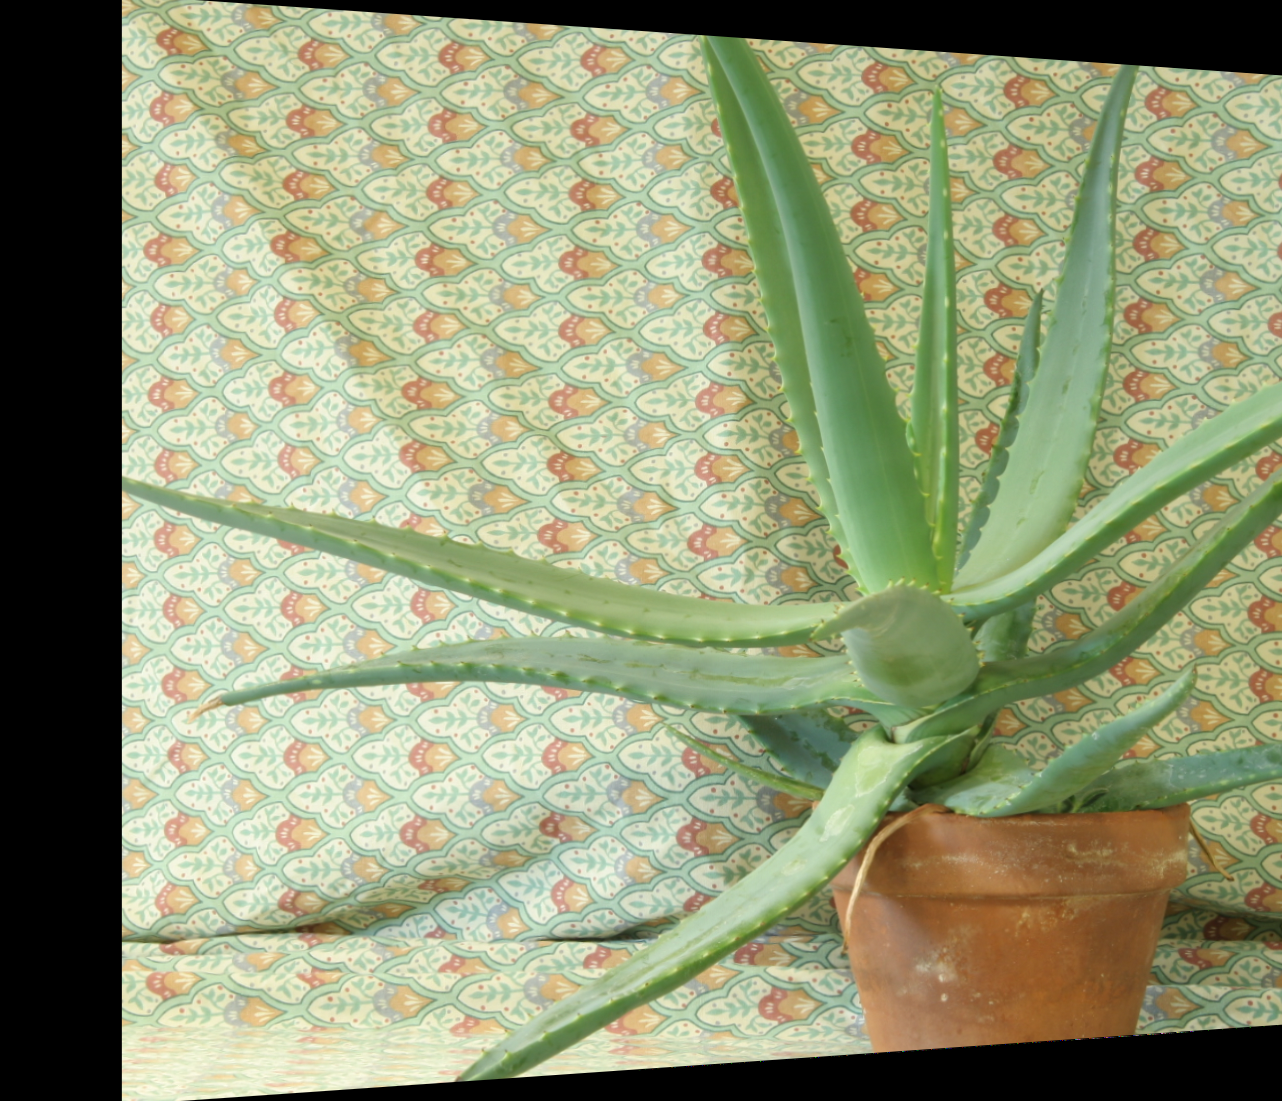
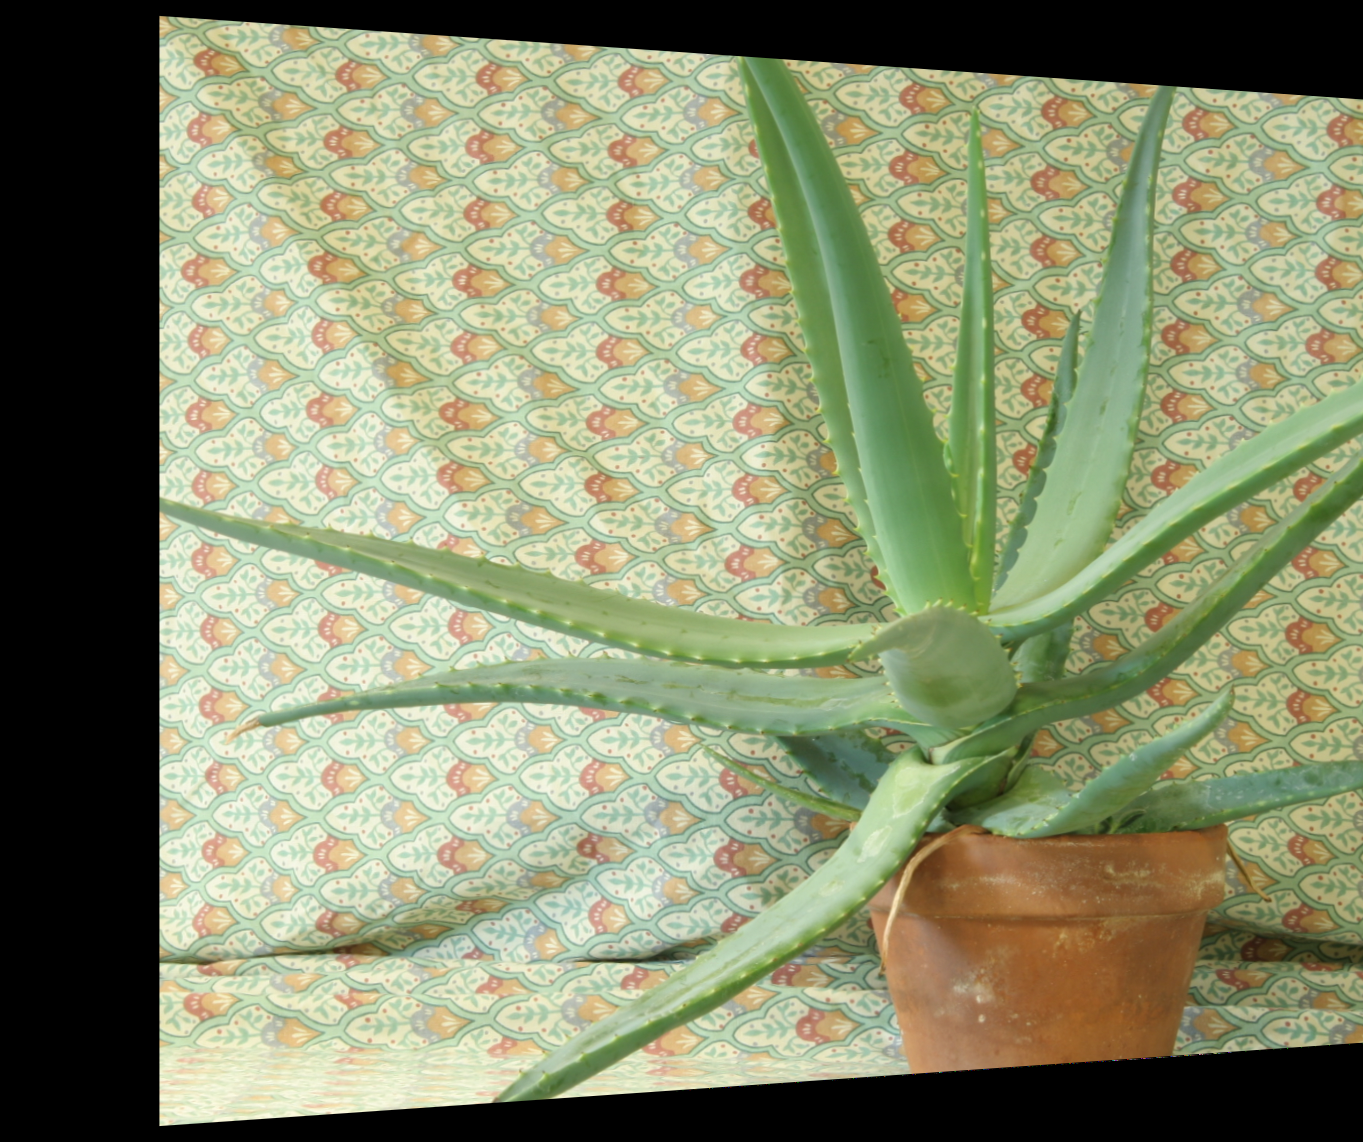
Tt est beau

diff --git a/Dev2/main.cpp b/Dev2/main.cpp
@@ -25,12 +25,12 @@ double zprime_cam_d = 1.0;
 
 cv::Mat findR()
 {
-    return R_cam_d * R_cam_g.t();
+    return R_cam_g.t() * R_cam_d;
 }
 
 cv::Mat findT(cv::Mat R)
 {
-    return T_cam_g - R.t() * T_cam_d;
+    return R_cam_d.t() * (T_cam_d - T_cam_g);
 }
 
 cv::Mat findRg(cv::Mat T)
@@ -51,7 +51,7 @@ cv::Mat findRg(cv::Mat T)
     double e31 = e12 * e23 - e22 * e13;
     double e32 = -(e11 * e23 - e21 * e13);
     double e33 = e11 * e22 - e21 * e12;
-    return (cv::Mat_<double>(3, 3) << e11, e21, e31, e12, e22, e32, e13, e23, e33);
+    return (cv::Mat_<double>(3, 3) << e11, e12, e13, e21, e22, e23, e31, e32, e33);
 }
 
 std::tuple<cv::Size, cv::Point2d> getDimensions(cv::Mat imageG, cv::Point2d Og, cv::Point2d Sg, cv::Mat Rg, double zprime, cv::Mat imageD, cv::Point2d Od, cv::Point2d Sd, cv::Mat Rd)
@@ -62,11 +62,11 @@ std::tuple<cv::Size, cv::Point2d> getDimensions(cv::Mat imageG, cv::Point2d Og, 
     {
         for (int x = 0; x < 2; x++)
         {
-            double trueX = x * (imageG.cols - 1);
-            double trueY = y * (imageG.rows - 1);
+            double m = x * (imageG.cols - 1);   //Coins de l'image originale gauche
+            double n = y * (imageG.rows - 1);
 
-            double px = (trueX - Og.x) * Sg.x;
-            double py = (trueY - Og.y) * Sg.y;
+            double px = (m - Og.x) * Sg.x;
+            double py = (n - Og.y) * Sg.y;
             double pz = zprime;
 
             cv::Mat p = (cv::Mat_<double>(3, 1) << px, py, pz); // point image
@@ -75,6 +75,8 @@ std::tuple<cv::Size, cv::Point2d> getDimensions(cv::Mat imageG, cv::Point2d Og, 
 
             int newX = q.at<double>(0, 0) / Sg.x + Og.x;
             int newY = q.at<double>(1, 0) / Sg.y + Og.y;
+
+            std::cout << "new X: " << newX << " new Y: " << newY << std::endl;
 
             cornersG.emplace_back(newX, newY);
         }
@@ -106,11 +108,11 @@ std::tuple<cv::Size, cv::Point2d> getDimensions(cv::Mat imageG, cv::Point2d Og, 
     {
         for (int x = 0; x < 2; x++)
         {
-            double trueX = x * (imageD.cols - 1);
-            double trueY = y * (imageD.rows - 1);
+            double m = x * (imageD.cols - 1);
+            double n = y * (imageD.rows - 1);
 
-            double px = (trueX - Od.x) * Sd.x;
-            double py = (trueY - Od.y) * Sd.y;
+            double px = (m - Od.x) * Sd.x;
+            double py = (n - Od.y) * Sd.y;
             double pz = zprime;
 
             cv::Mat p = (cv::Mat_<double>(3, 1) << px, py, pz); // point image
@@ -119,6 +121,7 @@ std::tuple<cv::Size, cv::Point2d> getDimensions(cv::Mat imageG, cv::Point2d Og, 
 
             int newX = q.at<double>(0, 0) / Sd.x + Od.x;
             int newY = q.at<double>(1, 0) / Sd.y + Od.y;
+            std::cout << "new X: " << newX << " new Y: " << newY << std::endl;
 
             cornersD.emplace_back(newX, newY);
         }
@@ -147,7 +150,12 @@ std::tuple<cv::Size, cv::Point2d> getDimensions(cv::Mat imageG, cv::Point2d Og, 
     int height = std::max(heightG, heightD);
     int width = std::max(widthG, widthD);
 
-    double Ox = (maxXd + minXd)/2;
+    double maxX = std::max(maxXg, maxXd);
+    double minX = std::min(minXg, minXd);
+
+    std::cout << maxX << minX << std::endl;
+
+    double Ox = (maxX - minX)/2;
     double Oy = height / 2;
 
     return std::make_tuple(cv::Size(width, height), cv::Point2d(Ox, Oy));
@@ -291,7 +299,7 @@ int main()
         return -1;
     }
 
-    auto [size, newO] = getDimensions(imageG, O_cam_g, S_cam_g, R_cam_g, zprime_cam_g, imageD, O_cam_d, S_cam_d, R_cam_d);
+    auto [size, newO] = getDimensions(imageG, O_cam_g, S_cam_g, Rg_rectification, zprime_cam_g, imageD, O_cam_d, S_cam_d, Rd_rectification);
 
     cv::Mat imageG_rectified = cv::Mat::zeros(size, imageG.type());
     cv::Mat imageD_rectified = cv::Mat::zeros(size, imageD.type());
